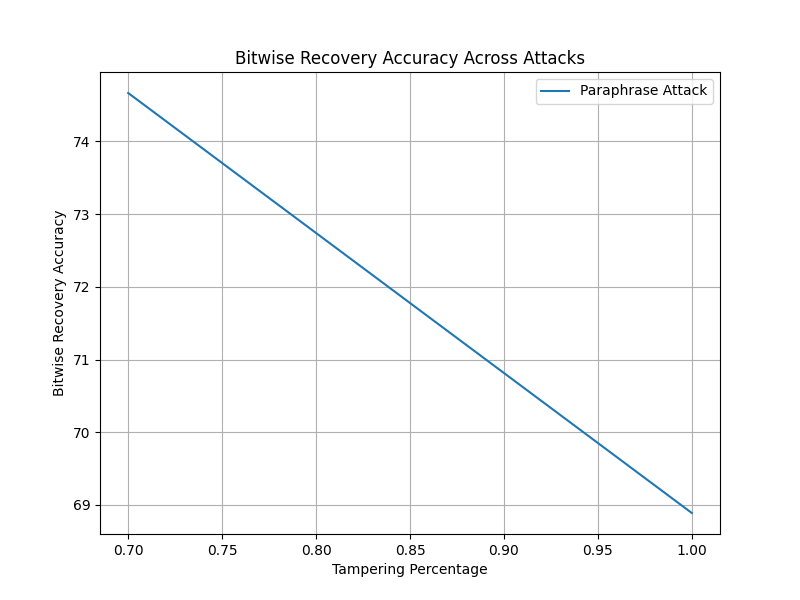
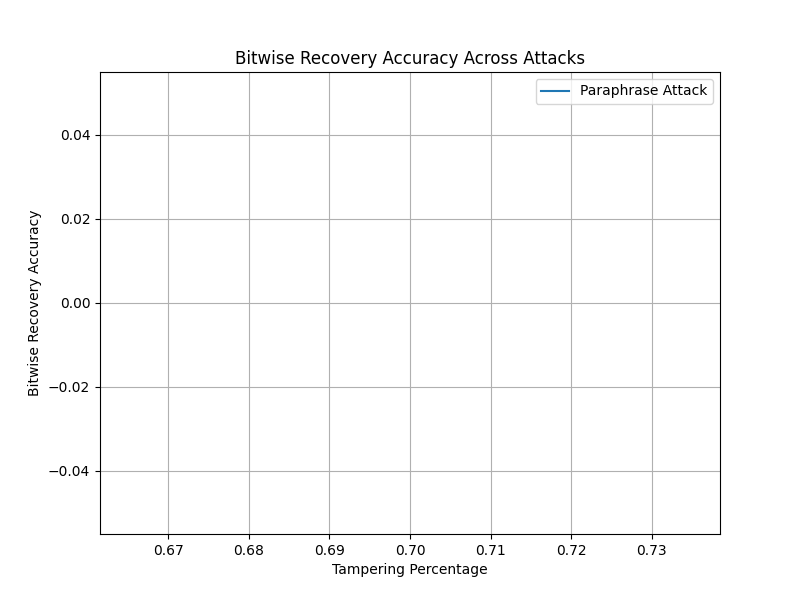
updated summary scheme

diff --git a/src/embeddings/core/summary_system.py b/src/embeddings/core/summary_system.py
@@ -1,0 +1,160 @@
+from typing import Any, List
+
+import numpy as np
+import json
+import re
+
+from ..utils.get_embedding import get_embeddings_in_batch
+from ..utils.new_text import generate_response
+from ..utils.steg import encode
+from ..config.system_prompts import FACT_GENERATION, FACT_CONTINUATION, FACT_DECOMPOSE, FACT_SUMMARY
+from .encoder import CharacterEncoder, Encoder
+from .error_correction import ErrorCorrection
+from .hash_functions import HashFunction, OracleHash
+
+class SummarySystem:
+    def __init__(
+        self,
+        client,
+        key: int,
+        hash_function: HashFunction,
+        error_correction: ErrorCorrection,
+        encoder: Encoder | None = None,
+    ):
+        self.client = client
+        self.hash_fn = hash_function
+        self.ecc = error_correction
+        self.encoder = encoder or CharacterEncoder()
+        self.error_encoded_length = None
+        self.key = key
+
+        # Get hash output length
+        self.hash_output_length = getattr(hash_function, "output_length")
+
+    def hide_message(self, data:Any, article: str) -> str:
+        """
+        Given an article, generate K key facts listed in descending order of importance.
+        Then ask the LLM to generate the next fact and hash it efficiently, avoid duplicate facts by maintaining a list of known facts.
+        Keep generating until m bits are reached.
+        Last write a summary based on the K + m facts.
+        """
+
+        # encoding and ECC
+        m_bits: list[int] = self.encoder.encode(data)
+        m_encoded: List[int] = self.ecc.encode(m_bits)
+        self.error_encoded_length = len(m_encoded)
+        m_chunks = [
+            m_encoded[i : i + self.hash_output_length]
+            for i in range(0, len(m_encoded), self.hash_output_length)
+        ]
+        m_chunks = [
+            nested + [0] * (self.hash_output_length - len(nested))
+            for nested in m_chunks
+        ]
+
+        print(f"raw code being encoded: {m_chunks}")
+        
+        # base facts generation
+        base_facts= generate_response(
+            client=self.client,
+            conversation_history=article,
+            system_prompt=FACT_GENERATION.format(k=self.key),
+            max_length=1000,
+            temperature=0
+        )
+
+        print(f"base_facts: {base_facts}")
+
+        # optional facts
+        prompt_for_optional_facts: str = article + "\nKey facts:\n" + base_facts + "\nOptional facts:\n"
+
+        print(f"prompt for optional facts: {prompt_for_optional_facts}")
+        optional_facts = self._encode(
+            chunks=m_chunks,
+            history=prompt_for_optional_facts,
+        )
+
+        print(f"optional facts: {optional_facts}")
+
+        # generate summary based on all facts
+        prompt_for_summary = base_facts + "\n".join(optional_facts) + "\nSummary:\n",
+
+        print(f"prompt for summary: {prompt_for_summary}")
+
+        cover_text = generate_response(
+            client=self.client,
+            conversation_history=prompt_for_summary,
+            system_prompt=FACT_SUMMARY,
+            max_length=1000,
+            temperature=0
+        ).strip()
+
+        print(f"cover_text: {cover_text}")
+
+        return cover_text
+
+        
+
+    def recover_message(self, stego_text: str):
+        """
+        Decompose article into K+m facts, 
+        """
+        optional_facts = self._decompose_summary(stego_text)[self.key:]
+        print(f"optional facts after decomposed: {len(optional_facts)},\n {optional_facts}")
+        embeddings = get_embeddings_in_batch(self.client, optional_facts)
+        bits_encoded = [self.hash_fn(emb) for emb in embeddings]
+        m_bits = self.ecc.decode(bits_encoded, self.error_encoded_length)
+        return self.encoder.decode(m_bits)
+
+    
+    def _encode(self, chunks: list[list[int]], history: str) -> list[str]:
+        facts = []
+        prohibited = set()
+        sampled_bits = np.nan
+        for chunk in chunks:
+            while not np.array_equal(sampled_bits, chunk):
+                system_prompt = FACT_CONTINUATION.format(prohibited_facts=prohibited)
+                # print(f"system prompt for optional facts: {system_prompt}")
+                response = generate_response(
+                    client=self.client,
+                    conversation_history=history,
+                    system_prompt=system_prompt,
+                    max_length=1000,
+                    temperature=0.5
+                )
+                processed_response = re.sub(r"\[\d+\]", "", response)
+                print(f"optional fact: {processed_response}")
+                embedding = self.client.embeddings.create(
+                    input=[processed_response],
+                    model="text-embedding-3-large"
+                ).data[0].embedding
+                sampled_bits = self.hash_fn(np.array(embedding).reshape(1, -1))
+                print(f"sampled bits: {sampled_bits}, desired_bits: {chunk}")
+                if np.array_equal(sampled_bits, chunk):
+                    history += response + "\n"
+                    facts.append(response)
+                    print(f"updated history: {history}")
+                    sampled_bits = np.nan
+                    prohibited.clear()
+                    break
+                else:
+                    if processed_response not in prohibited:
+                        prohibited.add(processed_response)
+                    print(f"updated prohibited_facts: {prohibited}")
+
+        return facts
+
+    def _decompose_summary(self, stego_text: str):
+        response = generate_response(
+            client=self.client,
+            conversation_history=stego_text,
+            system_prompt=FACT_DECOMPOSE,
+            max_length=1000,
+            temperature=0
+        )
+        print(f"decompse response: {response}")
+        facts = [f.strip() for f in response.split(sep='[sep]') if f.strip()]
+        print(f"facts decomposed: {facts}")
+        return facts
+
+

diff --git a/measurements/summary_system_test.py b/measurements/summary_system_test.py
@@ -8,12 +8,13 @@ from typing import Any, override
 
 import matplotlib.pyplot as plt
 import openai
+from datasets import load_dataset
 
 # from src.embeddings.utils.get_embedding import client
 from tqdm import tqdm
 
-from embeddings import Encoder, RandomProjectionHash, RepetitionCode, StegSystem
-from embeddings.config.system_prompts import STORY_GENERATION
+from embeddings import Encoder, RandomProjectionHash, RepetitionCode
+from embeddings.core.summary_system import SummarySystem
 from watermarks import (
     Attack,
     GPT2Model,
@@ -98,7 +99,7 @@ def compute_recovery_accuracy(original, recovered):
 def generate_recovery_accuracy_resumable(
     tampering_levels: list[float],
     attack_configurations: list,
-    system: StegSystem,
+    system: SummarySystem,
     num_bits: int,
     num_messages: int,
     num_stego_per_message: int,
@@ -149,6 +150,9 @@ def generate_recovery_accuracy_resumable(
     texts_log_path = out_dir / "texts_log.jsonl"
     summary_dir = out_dir / "summaries"
     summary_dir.mkdir(parents=True, exist_ok=True)
+
+    cnn_ds = load_dataset("abisee/cnn_dailymail", "1.0.0", split="test")
+    article = cnn_ds[0]["article"]
 
     if seed is not None:
         random.seed(seed)
@@ -216,7 +220,7 @@ def generate_recovery_accuracy_resumable(
             )
 
             for stego_i in range(checkpoint["stego_gen_index"], num_stego_per_message):
-                stego_text = system.hide_message(message, history)
+                stego_text = system.hide_message(message, article)
                 current_stego_texts.append(stego_text)
 
                 checkpoint["stego_gen_index"] = stego_i + 1
@@ -304,7 +308,6 @@ def generate_recovery_accuracy_resumable(
                             local=mode,
                         )
                         # print(f"===========\nattacked text:\n{attacked_text}")
-                        system.set_chunk_length(len(stego_text))
                         recovered = system.recover_message(attacked_text)
                         print(f"message: {message}, recovered: {recovered}")
                         if recovered == message:
@@ -528,9 +531,6 @@ def main():
 
     # Initialize components
     client = openai.OpenAI()
-    # hash_fn = PCAHash(
-    #     pca_model=load_pca_model("../embeddings/src/robust_steganography/models/pca_corporate.pkl")
-    # )
     hash_fn = RandomProjectionHash(embedding_dim=3072, seed=42)
 
     ##############################################################################
@@ -540,27 +540,15 @@ def main():
     ##############################################################################
 
     # ecc = ConvolutionalCode(block_size=1, K=3)
-    ecc = RepetitionCode(5)
-    system_prompt = STORY_GENERATION.format(
-        items="spy, weapons, embassy",
-        boring_theme="A spy trying to smuggle weapons into the embassy",
-    )
-    # system_prompt = CORPORATE_MONOLOGUE_ALT
-
-    # history = [
-    #     "I wanted to follow up regarding the implementation timeline for the new risk management system. Based on our initial assessment, we'll need to coordinate closely with both IT and Operations to ensure a smooth transition. Please review the attached documentation when you have a moment.",
-    #     "After consulting with the development team, we've identified several key milestones that need to be addressed before proceeding. The current testing phase has revealed some potential integration issues with our legacy systems, particularly in the trade validation module. We're working on implementing the necessary fixes and expect to have an updated timeline by end of week.",
-    #     "Given the complexity of these changes, I believe it would be beneficial to schedule a stakeholder review meeting. We should include representatives from Risk Management, IT Operations, and the Trading desk to ensure all requirements are being met. I've asked Sarah to coordinate calendars for next Tuesday afternoon.",
-    # ]
+    ecc = RepetitionCode(3)
     history = []
-    system = StegSystem(
+
+    system = SummarySystem(
         client=client,
+        key=5,
         hash_function=hash_fn,
         error_correction=ecc,
         encoder=BypassEncoder(),
-        system_prompt=system_prompt,
-        max_length=200,
-        story_mode=True,
     )
 
     # Right now we treat tp == 1 as global so there is no need to switch modes
@@ -579,23 +567,23 @@ def main():
         "system": system,
         "num_bits": 3,
         "num_messages": 3,
-        "num_stego_per_message": 10,
-        "runs": 5,
+        "num_stego_per_message": 1,
+        "runs": 1,
         "history": history,
         "seed": 38,
         "checkpoint_path": "checkpoints/test/exp_checkpoint.pkl",
         "output_path": "figures/test/embedding_recovery_test",
-        "save_texts": True,
+        "save_texts": False,
         "max_saved_examples": 200,
-        "resume": True,
-        "checkpoint_after_each_stego": True,
+        "resume": False,
+        "checkpoint_after_each_stego": False,
     }
 
     results = generate_recovery_accuracy_resumable(**params)
     print(results)
 
-    output_path = "./figures/embedding_recovery_test/"
-    plot_recovery_results(tp, attack_keys, results, output_path)
+    # output_path = "./figures/embedding_recovery_test/"
+    # plot_recovery_results(tp, attack_keys, results, output_path)
 
 
 if __name__ == "__main__":

diff --git a/src/embeddings/config/system_prompts.py b/src/embeddings/config/system_prompts.py
@@ -78,3 +78,48 @@ Your response should be in JSON format, the entire json object should be formate
 {"events" : [event_1, event_2, event_3, ... , event_i]}
 Each event should be stated with clarity and it should contain all information of the original plot.
 """
+
+FACT_GENERATION = """
+You will be given an article that contains many event information.
+Your job is to generate {k} facts that can be directly verified in the article.
+This means that the information of the fact can be found in the article.
+You should NOT include any context information you know about the content of the article.
+You should NOT include any implications from the article.
+Each fact should be a clear sentence with accurate information obtained from the article.
+The list of facts should be in descending order based on the importance to the article.
+You should only output the list of facts in the format below:
+[1]Placeholder for fact 1.
+[2]Placeholder for fact 2.
+[3]Placeholder for fact 3.
+
+Do not output anything else other than the facts.
+"""
+
+FACT_CONTINUATION = """
+You will be given an article and a list of key facts that are central to the article.
+You should continue the list of facts with a fact that is directly verifiable with the information in the article.
+This means that the information of the fact can be found in the article.
+You should NOT include any context information you know about the content of the article.
+You should NOT include any implications from the article.
+You should NOT output any exising facts in the list.
+The fact should be presented in a sentence that is accurate and concise to the piece of information in the article.
+The format of the optional facts should follow the key facts, each starts with a bracketed number and a string representing the fact, then a new line.
+The number should be a continuation of the previous number of the fact.
+You should NOT output any facts described in the following list:
+{prohibited_facts}
+"""
+
+FACT_SUMMARY = """
+You will be given a list of facts extracted from a news article, ordered in descending order based on their importance to that article.
+Your job is to connect these facts to form a summary for the article, despite that the article will not be provided to you.
+Given that your task is to form a coherent summary from the facts, the changes you made to the facts should be minimum.
+Idealy, you should keep each fact separate from each other in their own sentences.
+You must use all information provided by the list of facts and use NO additional information from your knowledge related to the contents of the facts.
+The summary must be concise, truthful to the information presented in the list of facts, and natural to read.
+"""
+
+FACT_DECOMPOSE = """
+You will be given a summary of various facts from a news article.
+Your job is to decompose the summary into facts that can be clearly separated from each other and be expressed in one sentence.
+Please list the facts in descending order based on their importance and use separator "[sep]" to separate them.
+"""

diff --git a/src/embeddings/core/steg_system.py b/src/embeddings/core/steg_system.py
@@ -43,7 +43,7 @@ class StegSystem:
                 f"not {type(hash_function).__name__}"
             )
 
-    def hide_message(self, data: Any, history) -> List[str]:
+    def hide_message(self, data: Any, history) -> str:
         # Get raw bits from encoder
         m_bits: list[int] = self.encoder.encode(data)
 
@@ -74,7 +74,7 @@ class StegSystem:
                     if all(h == d for h, d in zip(hash_bits, desired_bits)):
                         cover_texts.append(text)
                         break
-            return cover_texts
+            return " ".join(cover_texts)
 
         # Normal mode - use real API calls
         cover_text = encode(
@@ -85,7 +85,7 @@ class StegSystem:
             system_prompt=self.system_prompt,
             max_length=self.max_length,
         )
-        return cover_text
+        return " ".join(cover_text)
 
     def recover_message(self, stego_text: str):
         # assuming stego_text is a block of text, not separated by sentence
